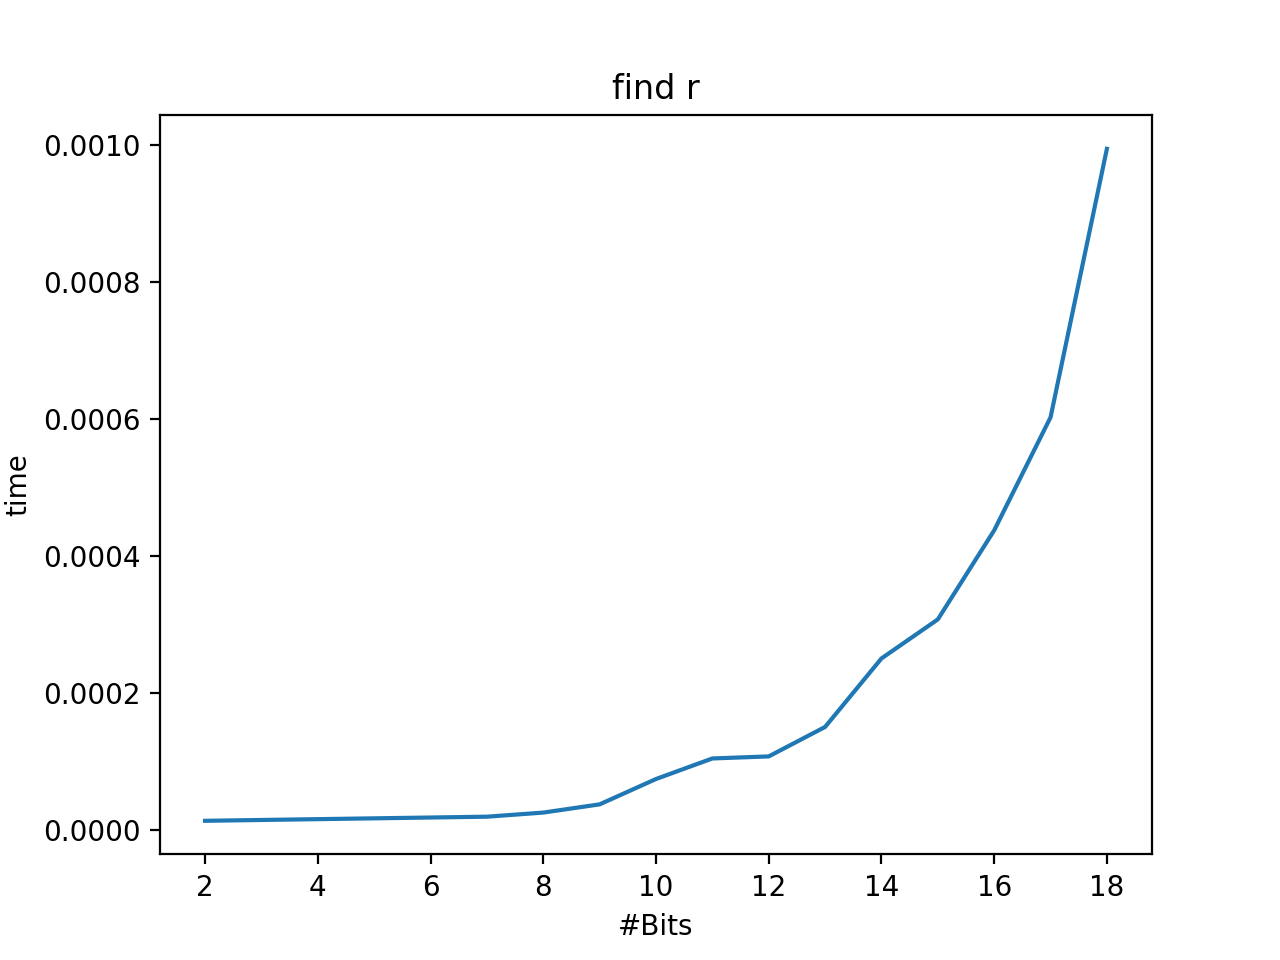
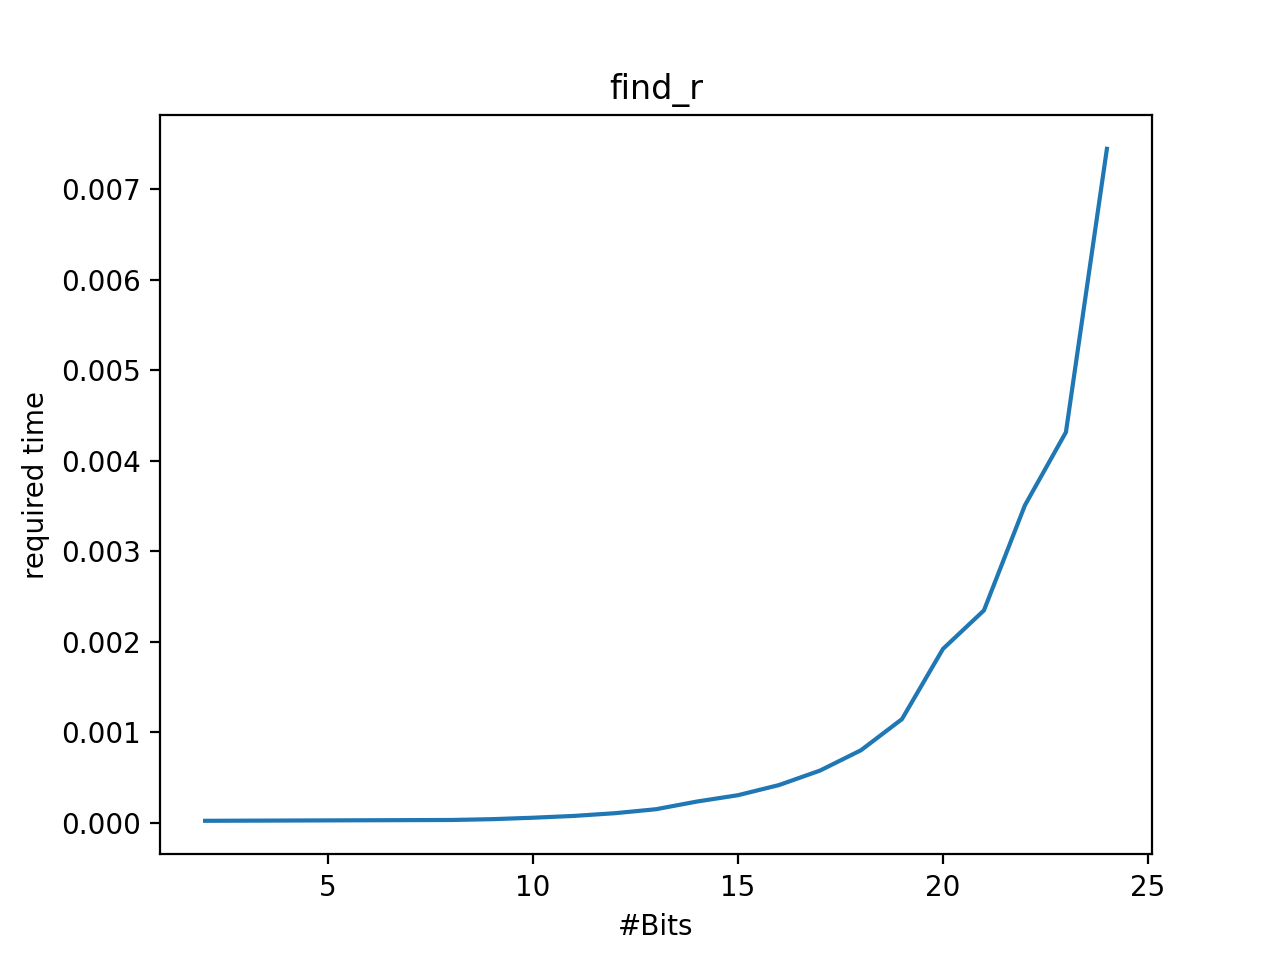
update

diff --git a/code/python_p/rt_tests.py b/code/python_p/rt_tests.py
@@ -91,38 +91,37 @@ def brute_force_prime_test(n):
 
 # Runtime complexity plot
 
-# x = [i  for i in range(2,100000000,200)]
-# y = []
-# bl = []
-# y_2 = []
-# bl_1 = []
-# n = 10	
+x = [i  for i in range(2,10000000,200)]
+y = []
+bl = []
+y_2 = []
+bl_1 = []
+n = 10	
 
-# for a in x:
-# 	start = time.process_time()
-# 	check_perfect_powers(a)
-# 	# find_r(a)
-# 	# naive_aks(a)
-# 	end = time.process_time()
-# 	t = end - start
-# 	l = bit_length(a)
-# 	if l not in bl:
-# 		y.append(t)
-# 		bl.append(l)
-
-
-
-# y = sorted(y)
+for a in x:
+	start = time.process_time()
+	# check_perfect_powers(a)
+	find_r(a)
+	# naive_aks(a)
+	end = time.process_time()
+	t = end - start
+	l = bit_length(a)
+	if l not in bl:
+		y.append(t)
+		bl.append(l)
 
 
-# print(bl)
-# print(y)
 
-# plt.plot(bl,y)
-# plt.xlabel("#Bits")
-# plt.ylabel("time")
-# plt.title("check_perfect_powers")
-# plt.show()
+y = sorted(y)
 
 
-print(bit_length(570141191371))
+print(bl)
+print(y)
+
+plt.plot(bl,y)
+plt.xlabel("#Bits")
+plt.ylabel("required time")
+plt.title("find_r")
+plt.show()
+
+
